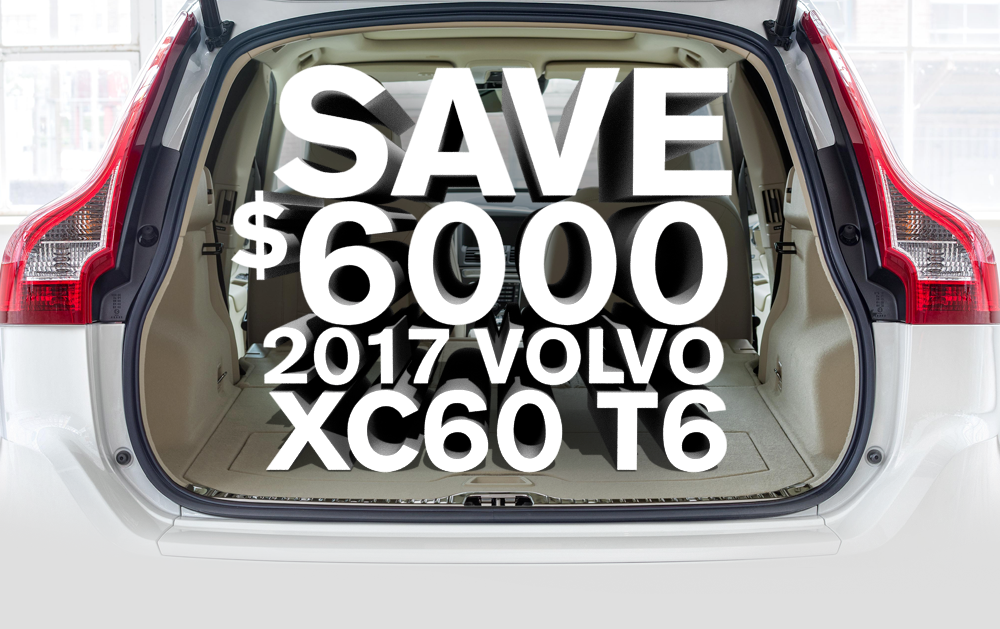
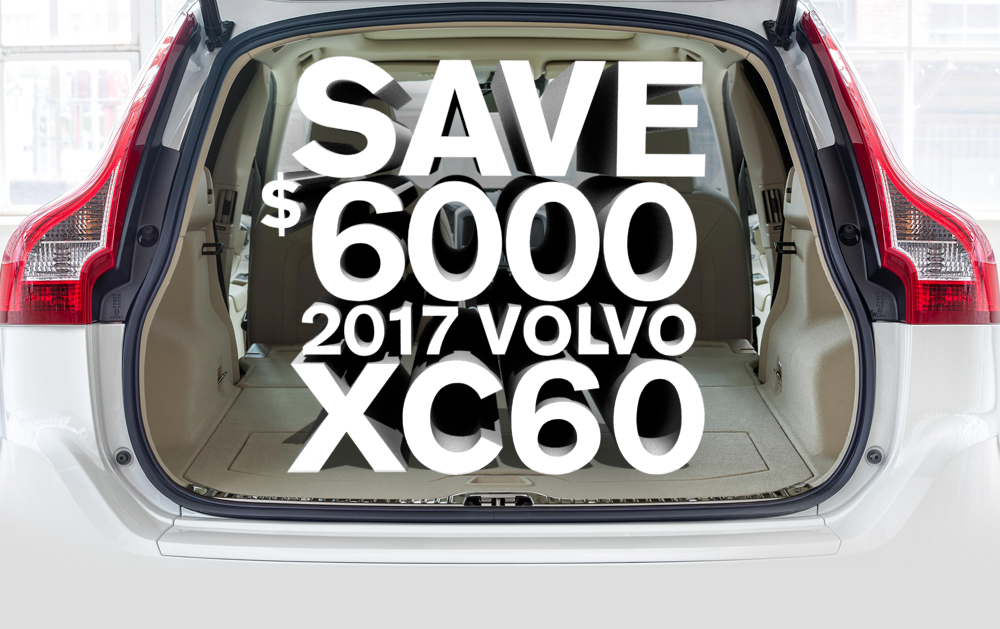
Removed all instances of "T6"

Changed region(s): [[0.217, 0.0906, 0.744, 0.7552], [0.217, 0.8156, 0.465, 0.8458], [0.372, 0.876, 0.403, 0.9062]]

diff --git a/pages/xc60/xc60Mail.html b/pages/xc60/xc60Mail.html
@@ -6,7 +6,7 @@
         <!-- Facebook sharing information tags -->
         <meta property="og:title" content="*|MC:SUBJECT|*">
 
-        <title>Take $6000 off 2017 XC60 T6s</title>
+        <title>Take $6000 off 2017 XC60s</title>
 
 	</head>
     <body leftmargin="0" marginwidth="0" topmargin="0" marginheight="0" offset="0" style="-webkit-text-size-adjust: none;margin: 0;padding: 0;background-color: #FAFAFA;width: 100% !important;">
@@ -24,7 +24,7 @@
                                     	<tr>
                                         	<td valign="top" style="border-collapse: collapse;">
                                             	<div mc:edit="std_preheader_content" style="color: #505050;font-family: Arial;font-size: 10px;line-height: 100%;text-align: left;">
-                                                	 Take $6000 off 2017 XC60 T6s
+                                                	 Take $6000 off 2017 XC60s
                                                 </div>
                                             </td>
                                         </tr>
@@ -46,7 +46,7 @@
                                                 <img src="http://www.volvocars.com/static/images/volvo-logo-scaled.png" alt="" style="border: 0;height: auto;line-height: 100%;outline: none;text-decoration: none;width: 60px;padding: 10px 0;">
                                               </div>
                                             	<!-- // Begin Module: Standard Header Image \\ -->
-                                            	<a href="http://www.volvocarsramsey.com/new-inventory/index.htm?search=&year=2017&model=XC60&bodyStyle=&saveFacetState=true&lastFacetInteracted=inventory-listing1-facet-anchor-model-4"><img src="xc60Header.png" style="max-width: 600px;border: 0;height: auto;line-height: 100%;outline: none;text-decoration: none;width: 600px;" id="headerImg" mc:label="header_image"></a>
+                                            	<a href="http://www.volvocarsramsey.com/new-inventory/index.htm?search=&year=2017&model=XC60&bodyStyle=&saveFacetState=true&lastFacetInteracted=inventory-listing1-facet-anchor-model-4"><img src="http://joethemovie.com/pages/xc60/xc60Header.png" style="max-width: 600px;border: 0;height: auto;line-height: 100%;outline: none;text-decoration: none;width: 600px;" id="headerImg" mc:label="header_image"></a>
                                             	<!-- // End Module: Standard Header Image \\ -->
 
                                             </td>
@@ -67,7 +67,7 @@
                                                     <tr>
                                                         <td valign="top" style="border-collapse: collapse;">
                                                             <div id="headingContent" style="color: #505050;font-family: Arial;font-size: 20px;line-height: 150%;text-align: center;">
-                                                                <h2 class="h2" style="color: #202020;display: block;font-family: Arial;font-size: 38px;font-weight: bold;line-height: 100%;margin-top: 0;margin-right: 0;margin-bottom: 10px;margin-left: 0;text-align: center;">Take $6000 off 2017 XC60 T6s</h2>
+                                                                <h2 class="h2" style="color: #202020;display: block;font-family: Arial;font-size: 38px;font-weight: bold;line-height: 100%;margin-top: 0;margin-right: 0;margin-bottom: 10px;margin-left: 0;text-align: center;">Take $6000 off 2017 XC60s</h2>
 
                                                                 Get into the 2017 Volvo XC60. Built for all roads, all weather,<br>and refinement with capability to take you anywhere.
                                                             </div>
@@ -87,9 +87,9 @@
                                                             </div>
                                                         </td>
                                                         <td align="center" valign="top" style="border-collapse: collapse;padding-top:50px;">
-                                                            <img src="xc60SuppoertingImg.png" style="max-width: 250px;border: 0;height: auto;line-height: 100%;outline: none;text-decoration: none;display: inline;" mc:label="image" mc:edit="riwc600_image00">
+                                                            <img src="http://joethemovie.com/pages/xc60/xc60SuppoertingImg.png" style="max-width: 250px;border: 0;height: auto;line-height: 100%;outline: none;text-decoration: none;display: inline;" mc:label="image" mc:edit="riwc600_image00">
                                                             <br>
-                                                            <a href="http://www.volvocarsramsey.com/new-inventory/index.htm?search=&year=2017&model=XC60&bodyStyle=&saveFacetState=true&lastFacetInteracted=inventory-listing1-facet-anchor-model-4"><img src="viewButton.png" alt="view inventory" width="250px;" style="border: 0;height: auto;line-height: 100%;outline: none;text-decoration: none;display: inline;"></a>
+                                                            <a href="http://www.volvocarsramsey.com/new-inventory/index.htm?search=&year=2017&model=XC60&bodyStyle=&saveFacetState=true&lastFacetInteracted=inventory-listing1-facet-anchor-model-4"><img src="http://joethemovie.com/pages/xc60/viewButton.png" alt="view inventory" width="250px;" style="border: 0;height: auto;line-height: 100%;outline: none;text-decoration: none;display: inline;"></a>
                                                         </td>
                                                     </tr>
                                                 </table>
